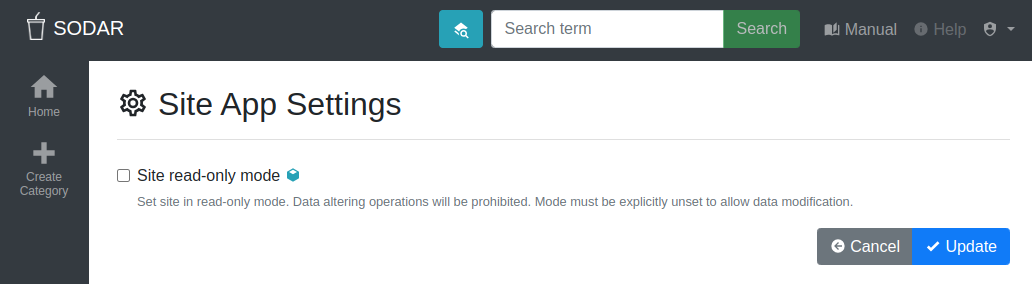
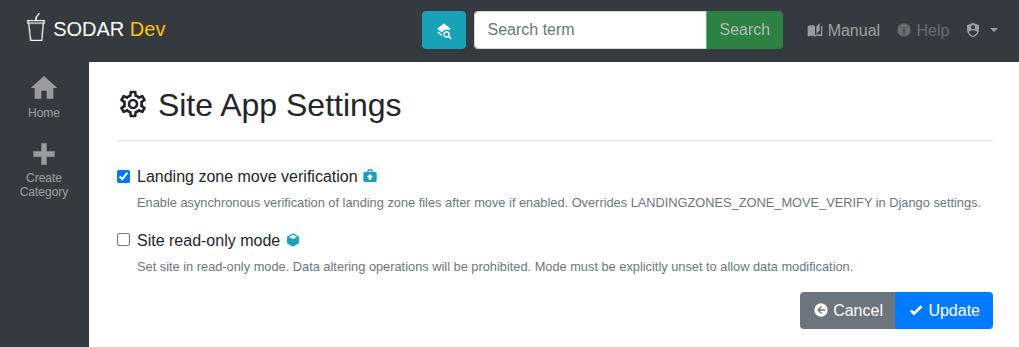
add zone_move_verify_site app setting (#2338)

diff --git a/landingzones/tests/test_views_api_taskflow.py b/landingzones/tests/test_views_api_taskflow.py
@@ -12,6 +12,7 @@ from django.test import override_settings
 from django.urls import reverse
 
 # Projectroles dependency
+from projectroles.app_settings import AppSettingAPI
 from projectroles.models import SODAR_CONSTANTS
 from projectroles.plugins import PluginAPI
 
@@ -55,6 +56,7 @@ from landingzones.views_api import (
 )
 
 
+app_settings = AppSettingAPI()
 plugin_api = PluginAPI()
 
 
@@ -67,6 +69,7 @@ PROJECT_TYPE_CATEGORY = SODAR_CONSTANTS['PROJECT_TYPE_CATEGORY']
 PROJECT_TYPE_PROJECT = SODAR_CONSTANTS['PROJECT_TYPE_PROJECT']
 
 # Local constants
+APP_NAME = 'landingzones'
 SHEET_PATH = SHEET_DIR + 'i_small.zip'
 ZONE_STATUS_INFO = 'Testing'
 TEST_OBJ_NAME = 'test1.txt'
@@ -729,9 +732,9 @@ class TestZoneSubmitMoveAPIView(ZoneAPIViewTaskflowTestBase):
         self.assertEqual(len(self.zone_coll.data_objects), 0)
         self.assertEqual(len(self.assay_coll.data_objects), 2)
 
-    @override_settings(LANDINGZONES_ZONE_MOVE_VERIFY=True)
     def test_post_move_verify(self):
         """Test POST for moving with verification enabled"""
+        app_settings.set(APP_NAME, 'zone_move_verify_site', True)
         irods_obj = self.make_irods_object(self.zone_coll, TEST_OBJ_NAME)
         self.make_checksum_object(irods_obj)
         self.assertEqual(self.zone.status, lc.ZONE_STATUS_ACTIVE)

diff --git a/landingzones/plugins.py b/landingzones/plugins.py
@@ -5,6 +5,7 @@ import logging
 from typing import Optional, Union
 from uuid import UUID
 
+from django.conf import settings
 from django.contrib.auth import get_user_model
 from django.urls import reverse
 
@@ -106,6 +107,16 @@ LANDINGZONES_APP_SETTINGS = [
         'delegates can still access landing zones if set.',
         placeholder='username or username@DOMAIN',
         user_modifiable=True,
+    ),
+    PluginAppSettingDef(
+        name='zone_move_verify_site',
+        scope=APP_SETTING_SCOPE_SITE,
+        type=APP_SETTING_TYPE_BOOLEAN,
+        default=settings.LANDINGZONES_ZONE_MOVE_VERIFY,
+        label='Landing zone move verification',
+        description='Enable asynchronous verification of landing zone files '
+        'after move if enabled. Overrides LANDINGZONES_ZONE_MOVE_VERIFY in '
+        'Django settings.',
     ),
 ]
 

diff --git a/landingzones/tests/test_views_taskflow.py b/landingzones/tests/test_views_taskflow.py
@@ -947,9 +947,9 @@ class TestZoneMoveView(
         self.assertEqual(len(self.zone_coll.data_objects), 0)
         self.assertEqual(len(self.assay_coll.data_objects), 2)
 
-    @override_settings(LANDINGZONES_ZONE_MOVE_VERIFY=True)
     def test_post_move_verify(self):
         """Test POST with verification enabled"""
+        app_settings.set(APP_NAME, 'zone_move_verify_site', True)
         irods_obj = self.make_irods_object(self.zone_coll, TEST_OBJ_NAME)
         self.make_checksum_object(irods_obj)
         self.assertEqual(self.zone.status, lc.ZONE_STATUS_ACTIVE)

diff --git a/landingzones/views.py b/landingzones/views.py
@@ -540,7 +540,9 @@ class ZoneMoveMixin(ZoneConfigPluginMixin):
         if validate_only:
             flow_data['validate_only'] = True
         else:
-            flow_data['move_verify'] = settings.LANDINGZONES_ZONE_MOVE_VERIFY
+            flow_data['move_verify'] = app_settings.get(
+                APP_NAME, 'zone_move_verify_site'
+            )
         taskflow.submit(
             project=project,
             user=request.user if request else None,

diff --git a/config/settings/base.py b/config/settings/base.py
@@ -811,6 +811,7 @@ LANDINGZONES_FILE_LIST_PAGINATION = env.int(
     'LANDINGZONES_FILE_LIST_PAGINATION', 15
 )
 # Enable verification of landing zone files after zone move
+# NOTE: Can be overridden by zone_move_verify_site site app setting
 LANDINGZONES_ZONE_MOVE_VERIFY = env.bool('LANDINGZONES_ZONE_MOVE_VERIFY', True)
 
 # Landingzones configapp plugin settings

diff --git a/docs_manual/source/admin_settings.rst b/docs_manual/source/admin_settings.rst
@@ -25,6 +25,8 @@ deployment framework.
     prefixed as ``SODAR_*``.
 
 
+.. _admin_settings_core:
+
 SODAR Core Settings
 ===================
 
@@ -71,10 +73,14 @@ circumstances. If removed from the list, the functionality regarding a specific
 backend will be disabled in SODAR.
 
 
+.. _admin_settings_sodar:
+
 SODAR Settings
 ==============
 
 Settings from SODAR applications themselves are described below.
+
+.. _admin_settings_sodar_irods:
 
 iRODS Settings
 --------------
@@ -127,6 +133,8 @@ iRODS Settings
     installation. In that case, manual moving of existing iRODS collections is
     required or links to iRODS will not work as expected.
 
+.. _admin_settings_sodar_taskflow:
+
 Taskflow Backend Settings
 -------------------------
 
@@ -142,6 +150,8 @@ Taskflow Backend Settings
 ``TASKFLOW_ZONE_PROGRESS_INTERVAL``
     Interval in seconds for zone progress counters, 0 for update on every file
     (int, default: 10).
+
+.. _admin_settings_sodar_webdav:
 
 iRODS WebDAV Settings
 ---------------------
@@ -164,6 +174,8 @@ iRODS WebDAV Settings
     If SODAR and the WebDAV are deployed on the same host, this should be set
     ``False`` (boolean, default: ``False``).
 
+.. _admin_settings_sodar_irodsbackend:
+
 iRODS Backend Settings
 ----------------------
 
@@ -171,6 +183,8 @@ iRODS Backend Settings
     iRODS backend status query interval in seconds (integer).
 ``IRODS_QUERY_BATCH_SIZE``
     Batch query size for improving sequential iRODS query performance (integer).
+
+.. _admin_settings_sodar_samplesheets:
 
 Sample Sheets Settings
 ----------------------
@@ -227,6 +241,8 @@ Sample Sheets Settings
     Limit AltamISA parser warnings to be saved in the database to N per
     investigation (integer).
 
+.. _admin_settings_sodar_landingzones:
+
 Landing Zones Settings
 ----------------------
 
@@ -259,12 +275,16 @@ Landing Zones Settings
     Enable verification of file integrity after landing zone move. Recomputes
     and validates checksums of recently moved landing zone files in the sample
     data repository, reports to the zone owner if problems were encountered.
+    Can be overridden by a :ref:`site app setting <admin_site_app_settings>` in
+    runtime.
 ``LZ_BIH_PROTEOMICS_SMB_EXPIRY_DAYS``
     BIH proteomics configuration SMB expiry days (integer).
 ``LZ_BIH_PROTEOMICS_SMB_USER``
     BIH proteomics configuration SMB user (string).
 ``LZ_BIH_PROTEOMICS_SMB_PASS``
     BIH proteomics configuration SMB password (string).
+
+.. _admin_settings_sodar_ontologyaccess:
 
 Ontology Access Settings
 ------------------------
@@ -274,6 +294,8 @@ Ontology Access Settings
 ``ONTOLOGYACCESS_QUERY_LIMIT``
     Term query limit (integer).
 
+.. _admin_settings_sodar_isatemplates:
+
 ISA Templates Settings
 ----------------------
 
@@ -282,6 +304,8 @@ ISA Templates Settings
     `cubi-isa-templates <https://github.com/bihealth/cubi-isa-templates/>`_
     repository (boolean).
 
+
+.. _admin_settings_docker:
 
 SODAR Docker Compose Settings
 =============================

diff --git a/docs_manual/source/admin_site_app_settings.rst b/docs_manual/source/admin_site_app_settings.rst
@@ -14,6 +14,10 @@ site. These settings are not project or user specific.
 
 Currently available settings:
 
+Landing zone move verification
+    Enable verification of file integrity after landing zone move. Overrides the
+    ``LANDINGZONES_ZONE_MOVE_VERIFY``
+    :ref:`Django setting <admin_settings_sodar_landingzones>`.
 Site read-only mode
     This sets the entire site into a read-only mode. No data including project
     metadata, sample sheets or landing zones can be modified, except by

diff --git a/docs_manual/source/sodar_release_notes.rst b/docs_manual/source/sodar_release_notes.rst
@@ -13,6 +13,7 @@ v1.2.1 (WIP)
 
 Release for minor updates, maintenance and bug fixes.
 
+- Add landing zone move verification override with site app setting
 - Fix landing zone coll_creation field populating
 - Fix landing zone reset Celery task check
 - Upgrade critical dependencies

diff --git a/CHANGELOG.rst b/CHANGELOG.rst
@@ -8,6 +8,13 @@ Changelog for the SODAR project. Loosely follows the
 Unreleased
 ==========
 
+Added
+-----
+
+- **Landingzones**
+    - ``zone_move_verify_site`` site app setting (#2338)
+    - Zone move verification override with site app setting (#2338)
+
 Changed
 -------
 
